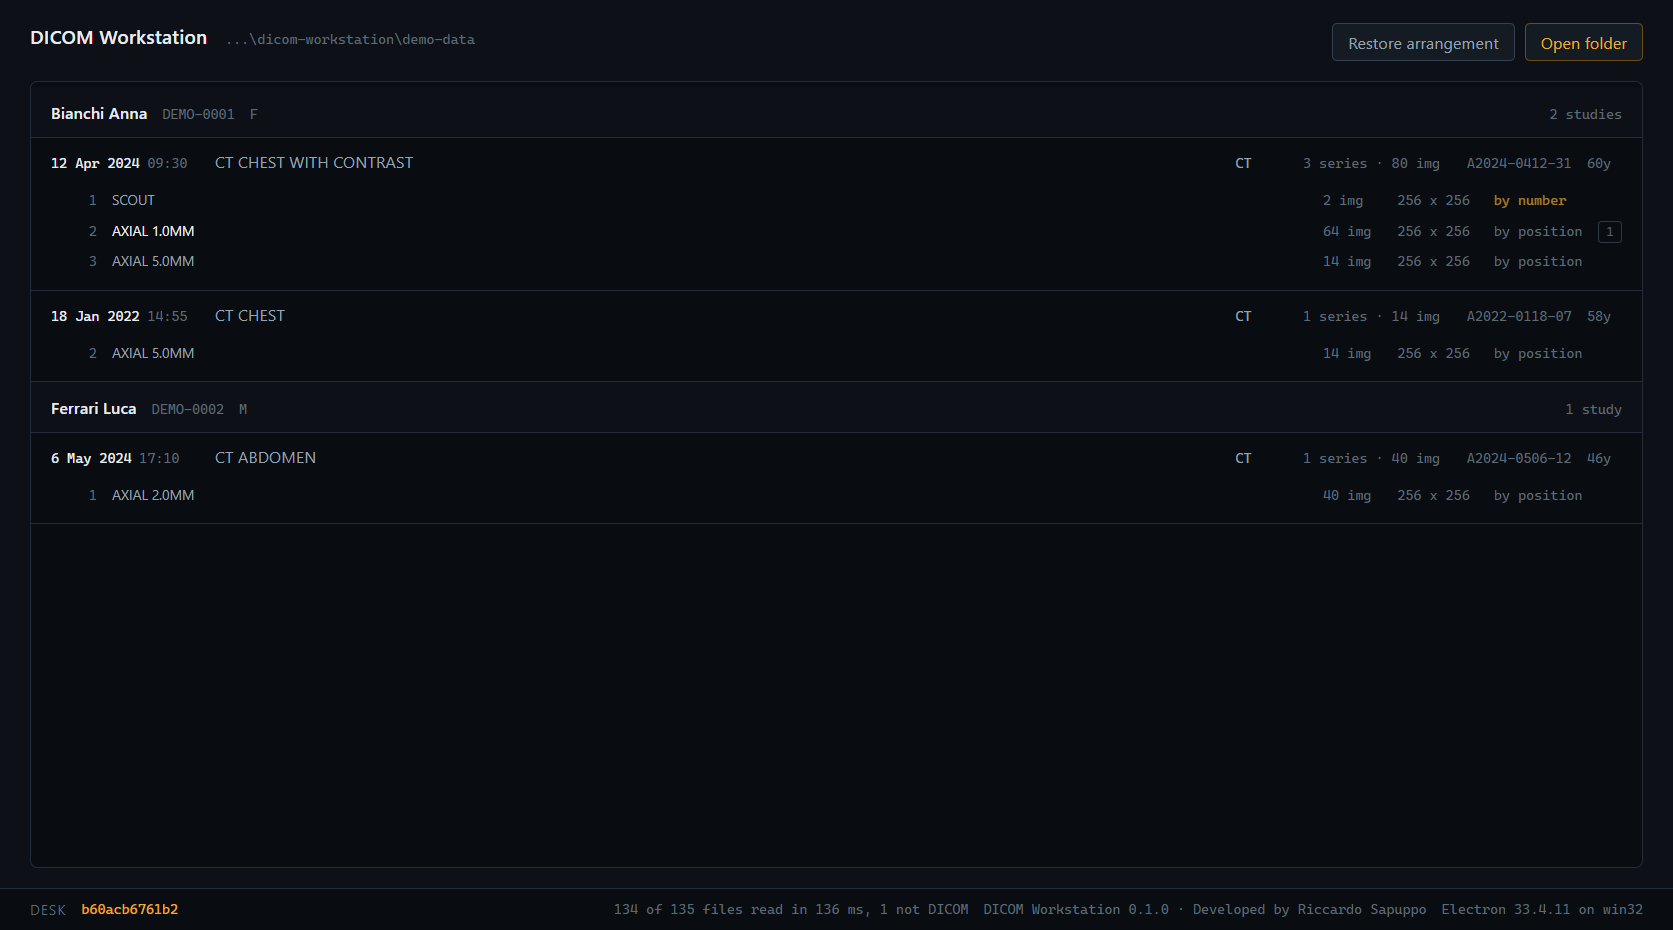
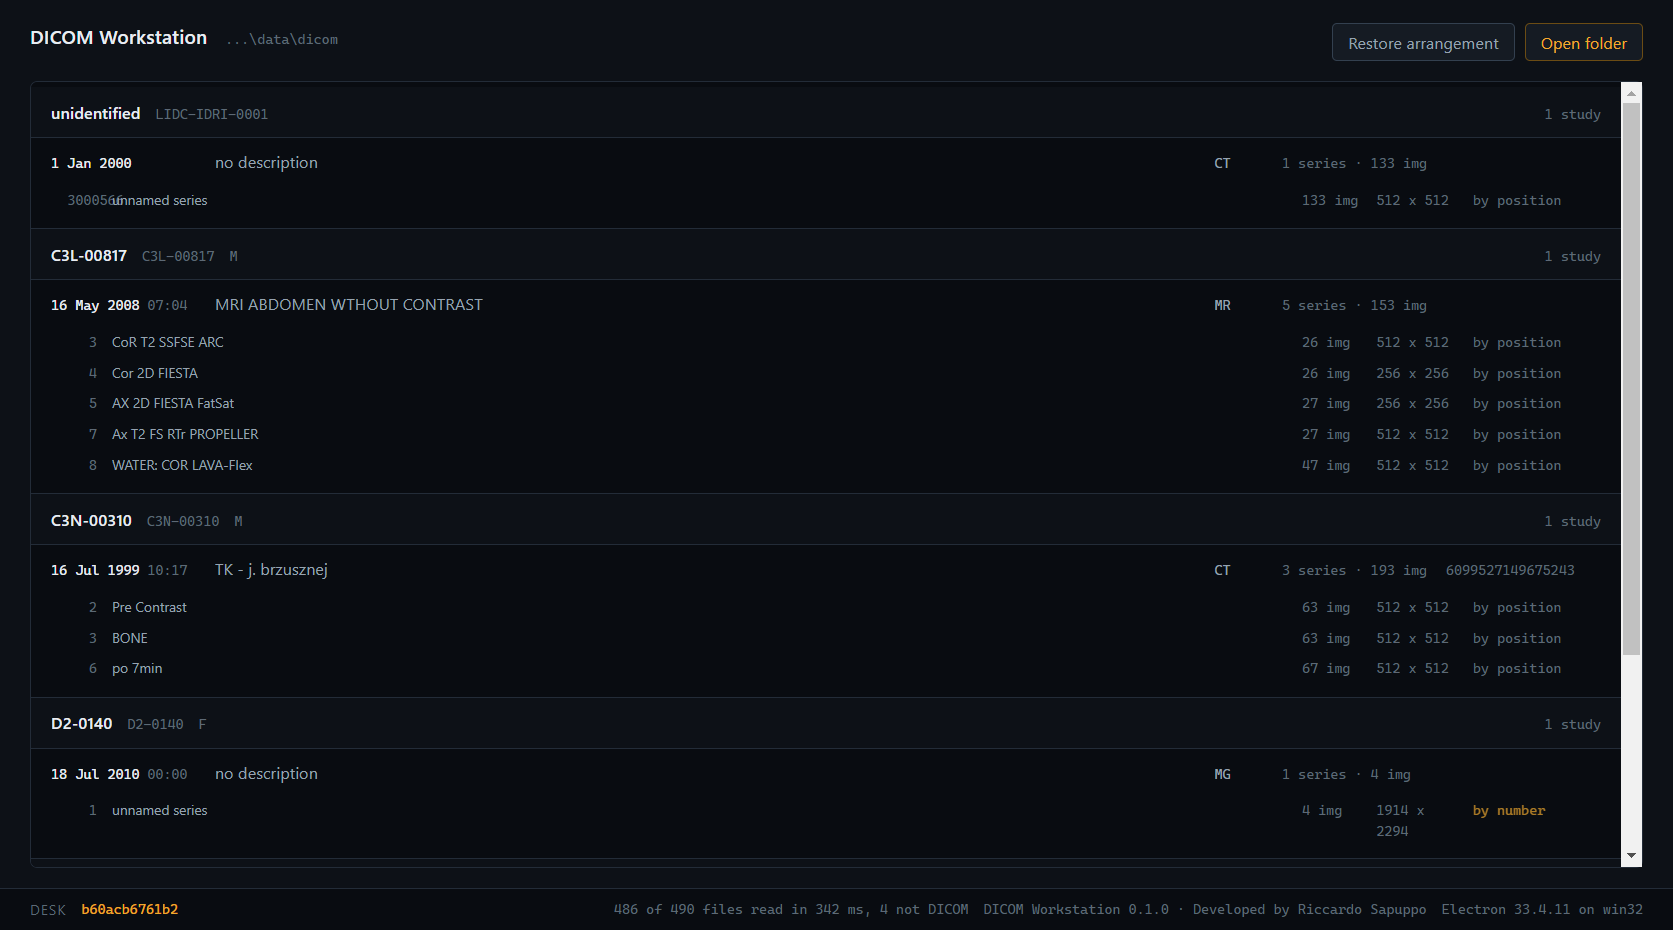
Pictures of what this actually is now
The three in the README were of the viewer that has been replaced, and one of
them pointed at a file that was never there. They are now taken by a script
that drives the real application, so what is in them is what somebody who runs
it would see: a chest CT from the archive, in the viewer, in the window.

The reformatting picture is gone with the code it showed.

diff --git a/README.md b/README.md
@@ -191,7 +191,7 @@ nobody is looking at any more. If the process dies mid-folder the window is told
 which folder was lost, instead of watching a progress bar that will never move
 again.
 
-![The desk](docs/desk.png)
+![The opening screen](docs/start.png)
 
 With no folder open the window shows the desk it is standing on, drawn to scale.
 That is not a placeholder: everything this application does is place windows on
@@ -199,7 +199,12 @@ those panes and put them back where they were, and being able to see the
 arrangement it believes in is what makes that debuggable rather than magic. It
 redraws when a monitor is plugged, unplugged or rescaled — and only when the
 fingerprint actually moves, since the same event also fires for a colour profile
-change, which moves no window.
+change, which moves no window. The picture above is from a machine with one
+screen, which is why there is no desk drawn in it.
+
+The pictures in this file are taken by `node scripts/screenshots.mjs`, driving
+the real application. A README whose pictures are of a version that no longer
+exists is worse than one with no pictures at all.
 
 ## Reading a folder
 
